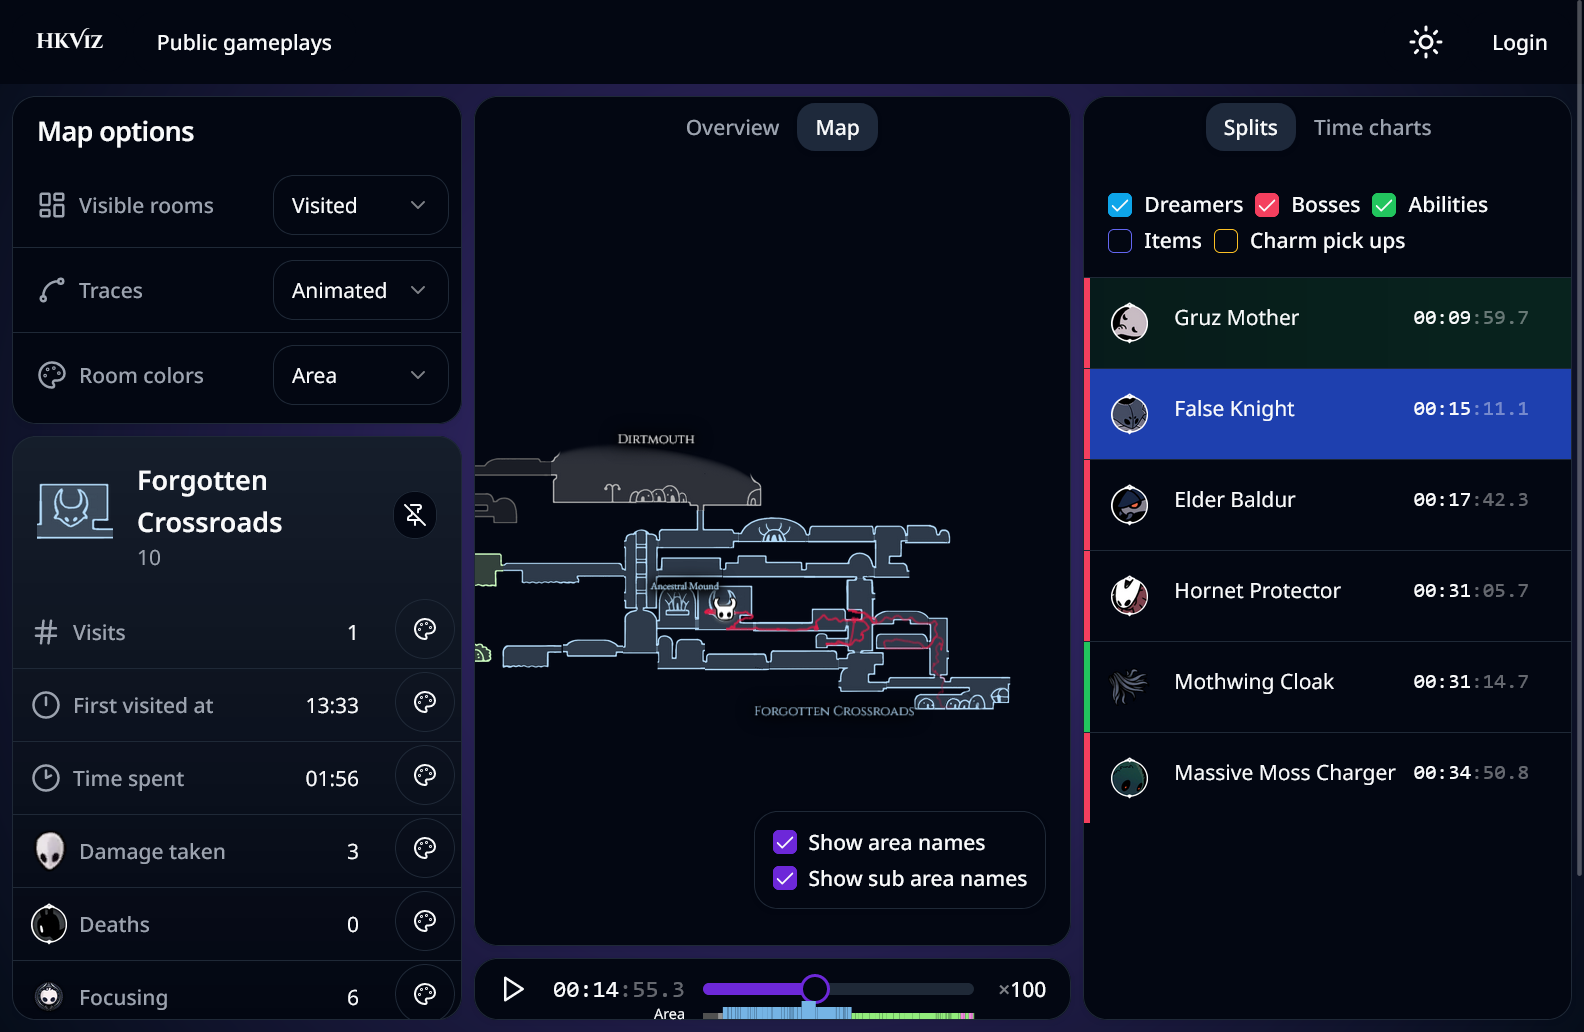
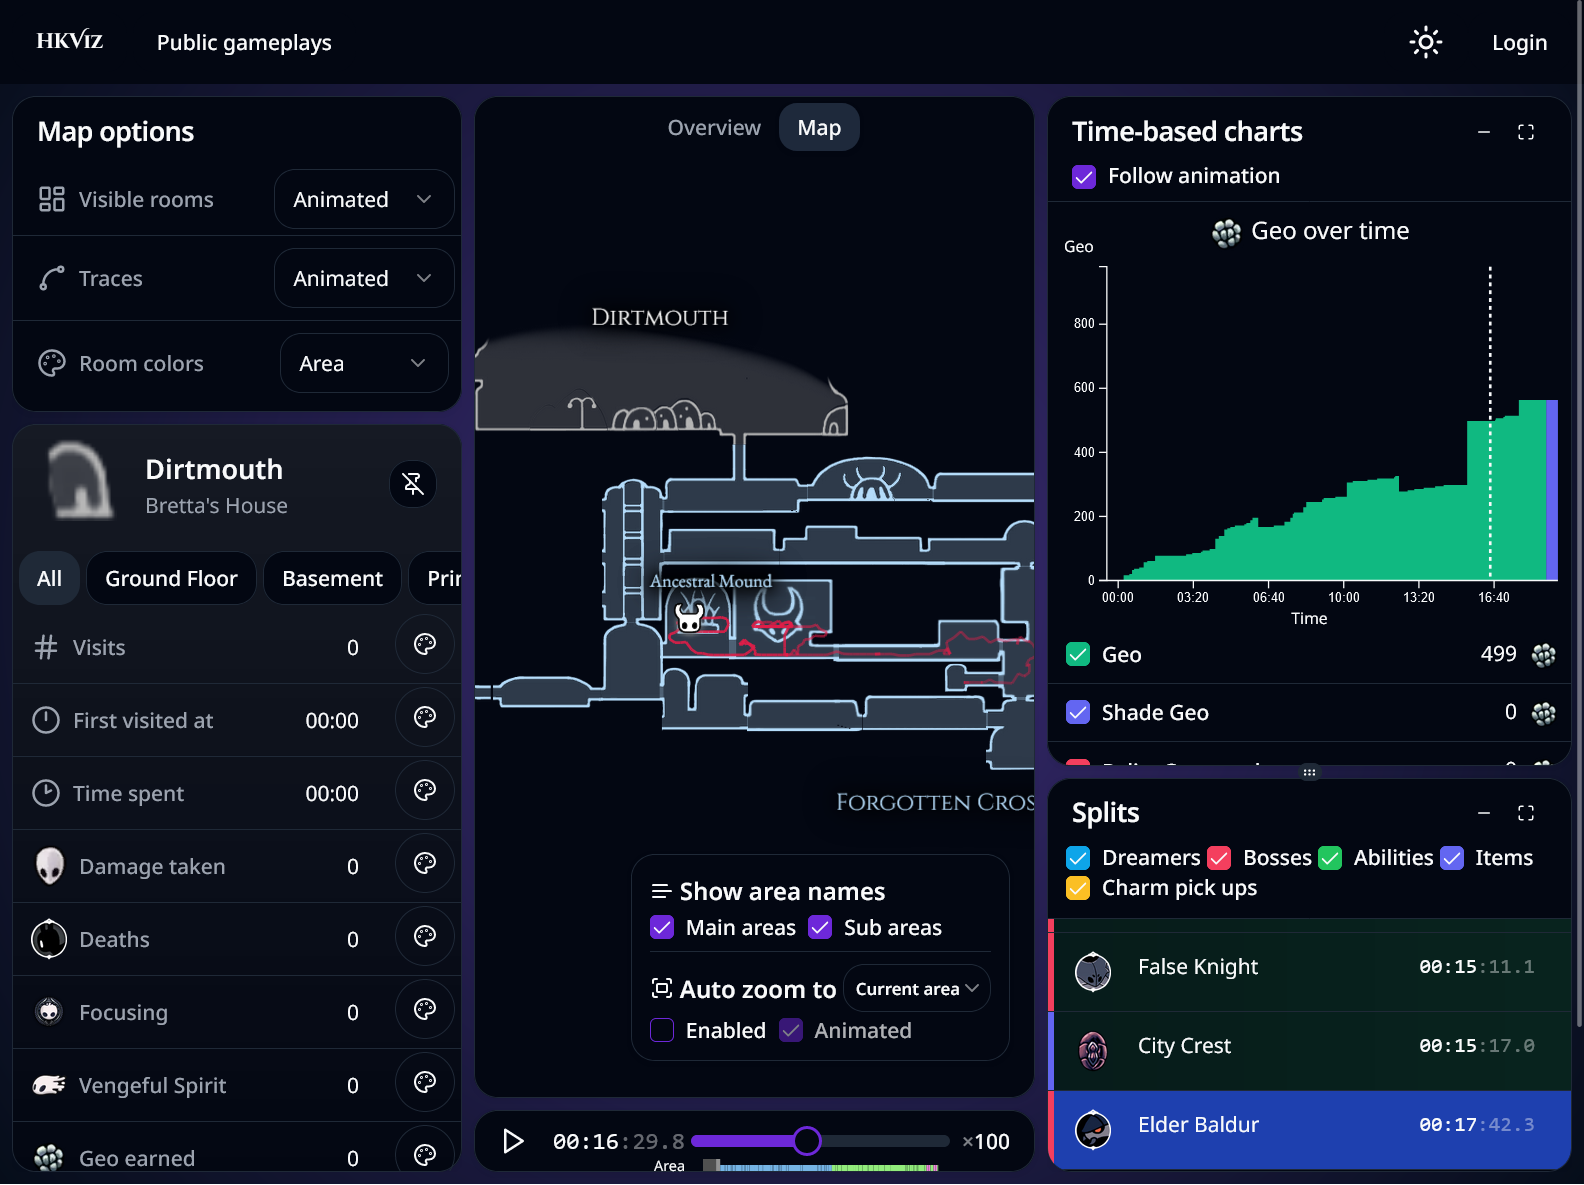
new overview screenshot in analytics guide

diff --git a/src/app/(docs)/guide/analytics/_screenshots.tsx b/src/app/(docs)/guide/analytics/_screenshots.tsx
@@ -63,29 +63,32 @@ export function OverviewScreenshot() {
                 {/* <ImageArea positionClassName="left-[1%] top-[9%] h-[32%] w-[28%]" href="#map-options">
                     Map options
                 </ImageArea> */}
-                <ImageArea positionClassName="left-[1%] top-[16%] h-[8%] w-[28%]" href="#room-visibility">
+                <ImageArea positionClassName="left-[1%] top-[13.5%] h-[6.5%] w-[28%]" href="#room-visibility">
                     Room visibility
                 </ImageArea>
-                <ImageArea positionClassName="left-[1%] top-[24.5%] h-[8%] w-[28%]" href="#player-movement-and-traces">
+                <ImageArea
+                    positionClassName="left-[1%] top-[20.25%] h-[6.5%] w-[28%]"
+                    href="#player-movement-and-traces"
+                >
                     Traces
                 </ImageArea>
-                <ImageArea positionClassName="left-[1%] top-[33%] h-[8%] w-[28%]" href="#map-coloring-by-variables">
+                <ImageArea positionClassName="left-[1%] top-[27%] h-[6.5%] w-[28%]" href="#map-coloring-by-variables">
                     Room colors
                 </ImageArea>
-                <ImageArea positionClassName="left-[1%] top-[42%] h-[57%] w-[28%]" href="#map-coloring-by-variables">
+                <ImageArea positionClassName="left-[1%] top-[36%] h-[63%] w-[28%]" href="#map-coloring-by-variables">
                     Room analytics
                 </ImageArea>
-                <ImageArea positionClassName="left-[30%] top-[9%] h-[83%] w-[38%]" href="#map">
+                <ImageArea positionClassName="left-[30%] top-[8%] h-[85%] w-[35.25%]" href="#map">
                     Map
                 </ImageArea>
-                <ImageArea positionClassName="left-[30%] top-[93%] h-[6%] w-[38%]" href="#timeline">
+                <ImageArea positionClassName="left-[30%] top-[93.5%] h-[5.5%] w-[35.25%]" href="#timeline">
                     Timeline
                 </ImageArea>
-                <ImageArea positionClassName="left-[68.5%] top-[9%] h-[90%] w-[31%]" href="#splits">
-                    Splits
-                </ImageArea>
-                <ImageArea positionClassName="left-[82%] top-[9%] h-[8%] w-[10%]" href="#time-charts">
+                <ImageArea positionClassName="left-[66%] top-[8%] h-[57%] w-[33%]" href="#time-charts">
                     Time charts
+                </ImageArea>
+                <ImageArea positionClassName="left-[66%] top-[65.75%] h-[33%] w-[33%]" href="#splits">
+                    Splits
                 </ImageArea>
             </ImageAreaShadow>
         </ImageContainer>

diff --git a/src/app/run/[id]/_page.tsx b/src/app/run/[id]/_page.tsx
@@ -222,7 +222,7 @@ function RightCard({ useViewOptionsStore }: { useViewOptionsStore: UseViewOption
     return (
         <ResizablePanelGroup
             direction="vertical"
-            className="h-unset-important min-h-[calc(100vh-var(--main-nav-height))] lg:min-h-[35rem] lg:max-w-[380px]"
+            className="h-unset-important min-h-[calc(100vh-var(--main-nav-height))] lg:min-h-[35rem] lg:max-w-[350px]"
             onLayout={onLayout}
         >
             <ResizablePanel
